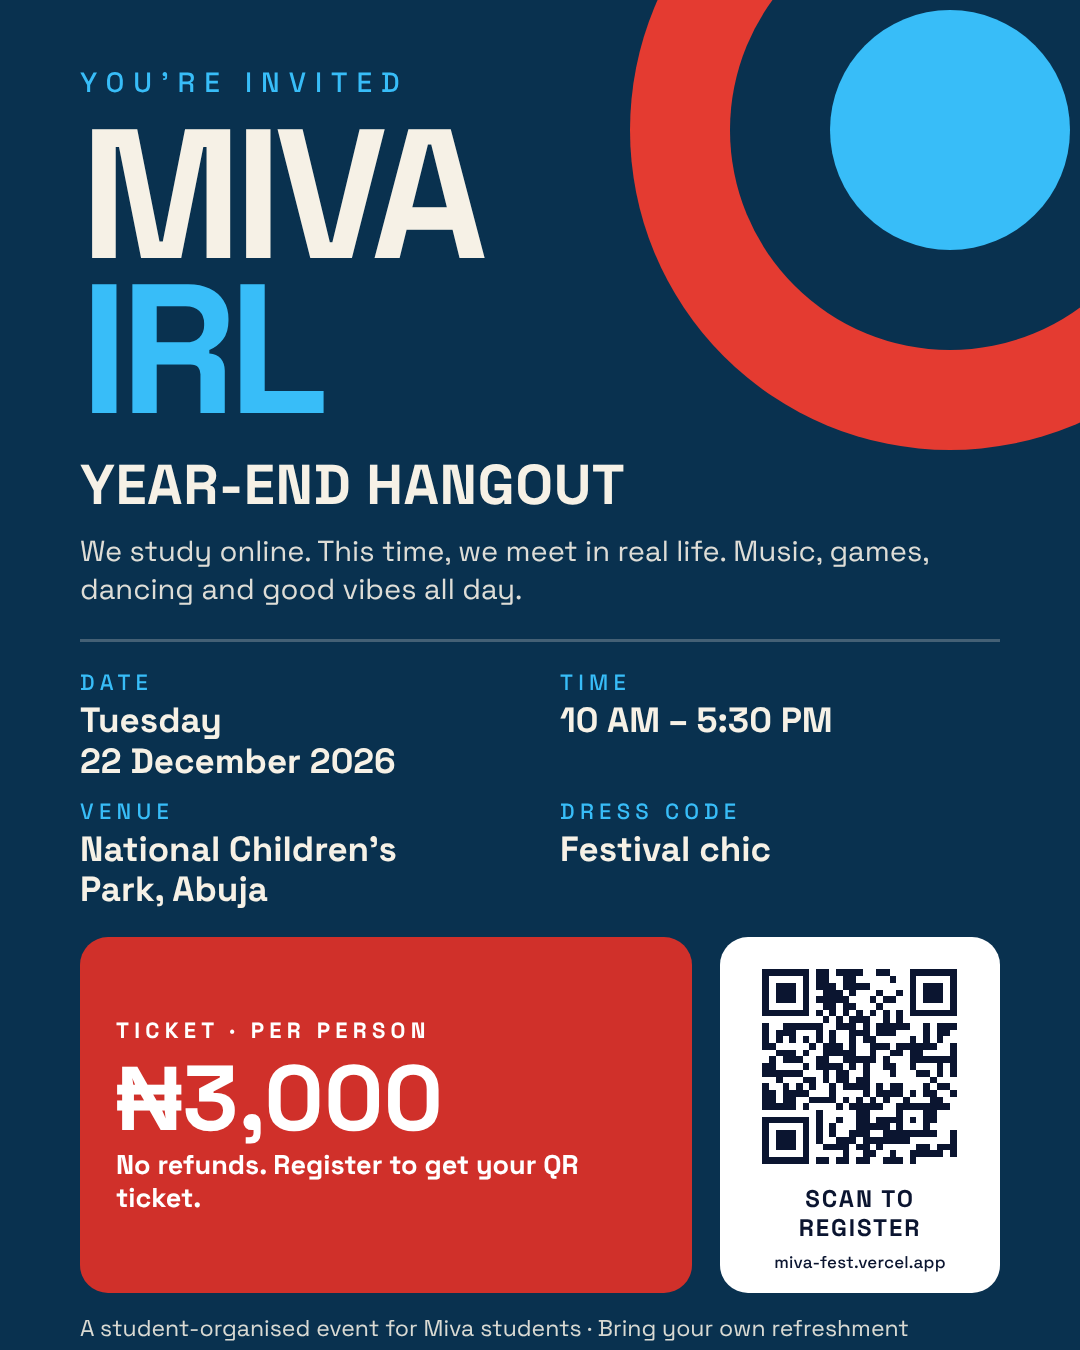
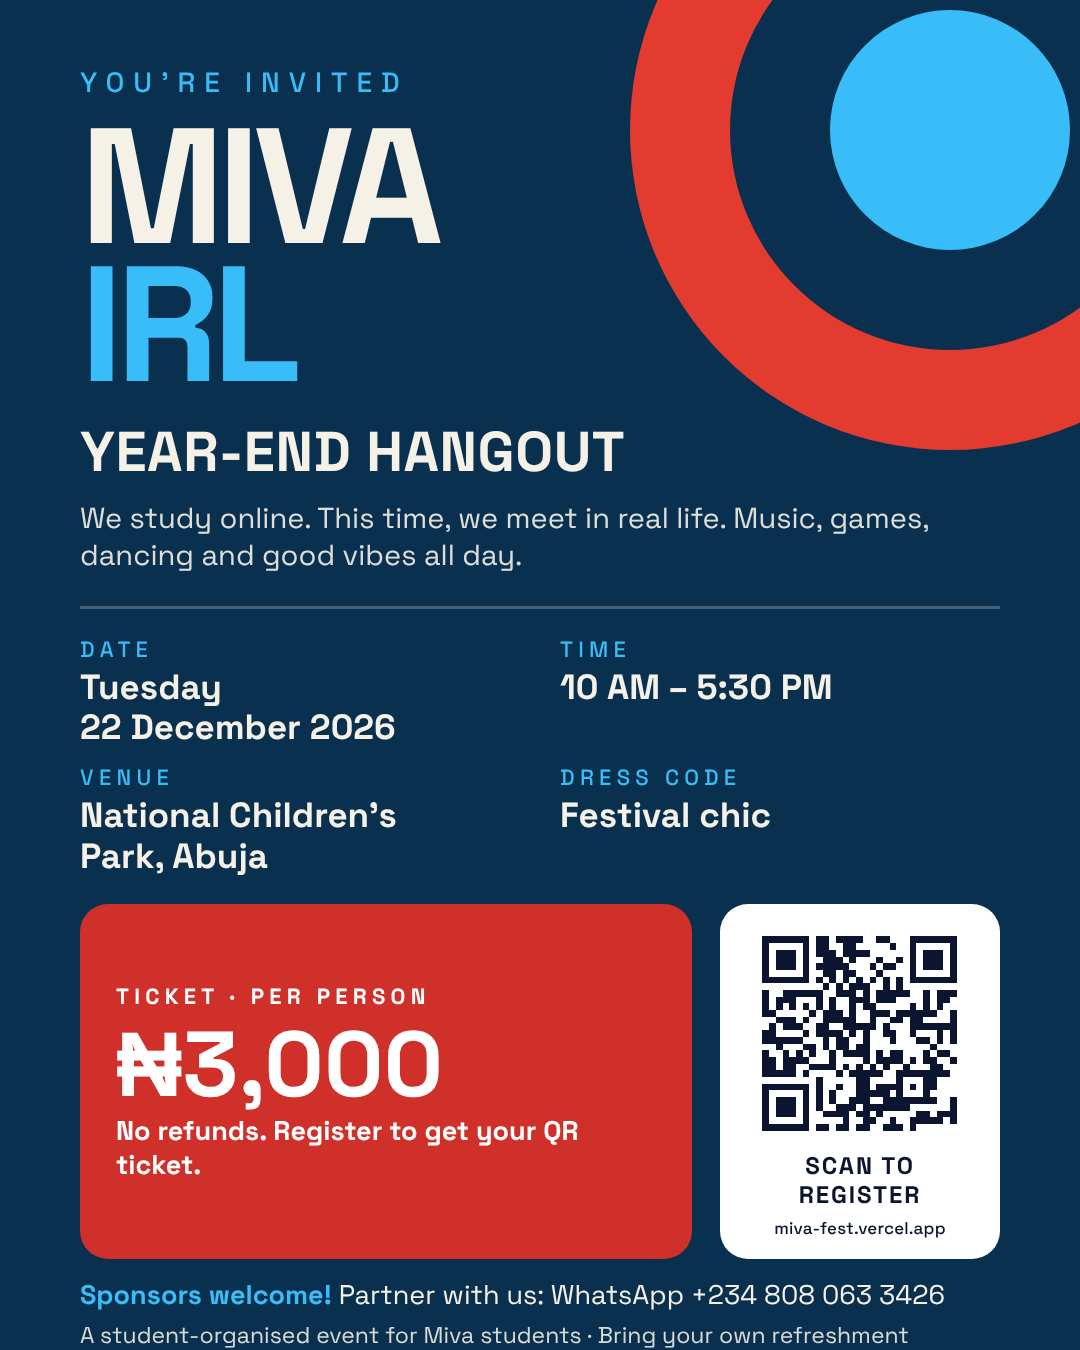
Flyer: add "Sponsors welcome" with the WhatsApp contact
Headline reduced to 164px so everything fits; QR re-verified.

Claude-Session: https://claude.ai/code/session_017u2fAYwLd8jgwD4gN1FR1w

Changed region(s): [[0.0611, 0.0933, 0.9472, 1.0]]

diff --git a/flyer/flyer.html b/flyer/flyer.html
@@ -19,7 +19,7 @@ body{background:var(--bg);color:var(--cream);font-family:'Space Grotesk',sans-se
 .r3{right:10px;top:10px;width:240px;height:240px;background:var(--accent)}
 .page{position:absolute;inset:0;padding:64px 80px 48px;display:flex;flex-direction:column}
 .eyebrow{font-size:28px;font-weight:500;letter-spacing:.32em;text-transform:uppercase;color:var(--accent)}
-h1{font-size:184px;line-height:.84;letter-spacing:-.045em;text-transform:uppercase;margin-top:18px;font-weight:700}
+h1{font-size:164px;line-height:.84;letter-spacing:-.045em;text-transform:uppercase;margin-top:18px;font-weight:700}
 h1 span{display:block;color:var(--accent)}
 .sub{font-size:56px;font-weight:700;text-transform:uppercase;letter-spacing:.01em;margin-top:22px}
 .tag{font-size:29px;margin-top:12px;color:rgba(246,241,230,.9);max-width:880px;line-height:1.3}
@@ -34,7 +34,9 @@ h1 span{display:block;color:var(--accent)}
 .qr{width:280px;background:#fff;color:var(--ink);border-radius:28px;padding:20px;display:flex;flex-direction:column;align-items:center;justify-content:center;gap:8px}
 .qr canvas{width:220px;height:220px;image-rendering:pixelated}
 .qr b{font-size:24px;text-transform:uppercase;letter-spacing:.08em;text-align:center;line-height:1.2}
-.foot{margin-top:20px;font-size:23px;color:rgba(246,241,230,.88)}
+.sponsor{margin-top:18px;font-size:27px;color:var(--cream)}
+.sponsor b{color:var(--accent)}
+.foot{margin-top:8px;font-size:23px;color:rgba(246,241,230,.88)}
 .qr .url{font-size:17px;font-weight:500;color:var(--ink);letter-spacing:.01em}
 </style>
 </head>
@@ -59,6 +61,7 @@ h1 span{display:block;color:var(--accent)}
     </div>
     <div class="qr"><canvas id="qr" width="230" height="230" role="img" aria-label="QR code to the registration page"></canvas><b>Scan to register</b><span class="url" id="url"></span></div>
   </div>
+  <p class="sponsor"><b>Sponsors welcome!</b> Partner with us: WhatsApp +234 808 063 3426</p>
   <div class="foot">
     A student-organised event for Miva students &middot; Bring your own refreshment
   </div>
